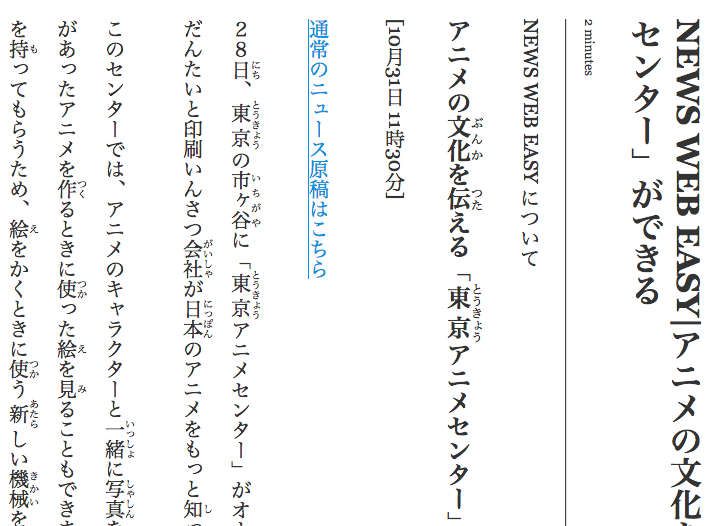
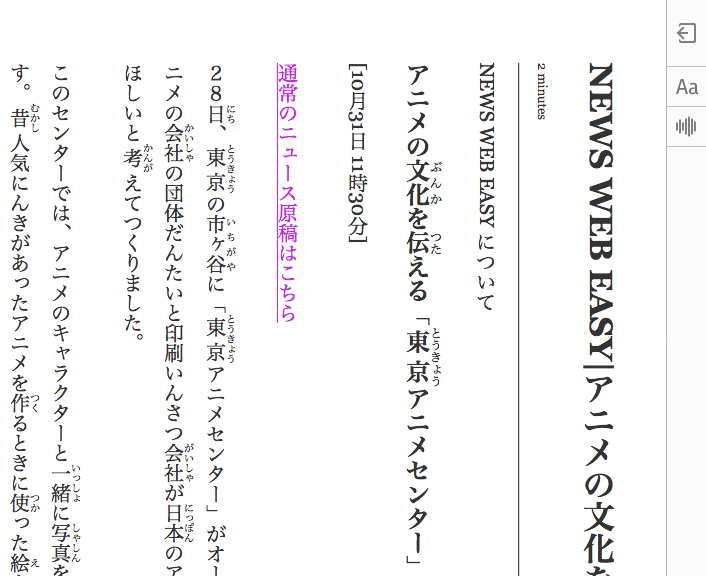
Add Chinese font override if lang=zh, supoprt reader view width setting

Changed region(s): [[0.0, 0.0304, 0.779, 1.0], [0.8102, 0.0304, 0.9972, 1.0]]

diff --git a/index.html b/index.html
@@ -56,11 +56,11 @@ javascript: (function() {
   const css = `
     :root {
       --line-height-scale: 1.3;
+      --max-width-to-height-scale: 1.0;
       --font-size-scale: 1.0;
     }
 
     body {
-      max-height: 0;
       padding: 0 !important;
       margin: 0 !important;
       overflow-x: auto !important;
@@ -77,18 +77,22 @@ javascript: (function() {
       --font-size-scale: 1.5;
     }
 
+    *[lang=zh] {
+      font-family: Georgia, 'Times New Roman', 'FangSong', '仿宋', STFangSong, '华文仿宋', serif !important;
+    }
+
     p {
       margin: -10px -10px -10px 20px !important;
     }
 
     #container {
       text-combine-upright: digits 4;
-      max-height: calc(100% - 64px * 2);
       max-width: 100% !important;
+      height: calc(100% - 128px);
       writing-mode: vertical-rl;
       position: fixed;
       overflow-x: auto;
-      padding: 64px 64px 64px 0;
+      padding: 64px 0 64px 0;
     }
 
     #reader-toolbar {
@@ -116,11 +120,11 @@ javascript: (function() {
     }
 
     .line-height2 {
-      line-height: 1.2em !important;
+      line-height: calc(1.2em * var(--line-height-scale)) !important;
     }
 
     .line-height3 {
-      line-height: 1.4em !important;
+      line-height: calc(1.4em * var(--line-height-scale)) !important;
     }
 
     .line-height4 {
@@ -128,23 +132,59 @@ javascript: (function() {
     }
 
     .line-height5 {
-      line-height: 1.8em !important;
+      line-height: calc(1.8em * var(--line-height-scale)) !important;
     }
 
     .line-height6 {
-      line-height: 2.0em !important;
+      line-height: calc(2.0em * var(--line-height-scale)) !important;
     }
 
     .line-height7 {
-      line-height: 2.2em !important;
+      line-height: calc(2.2em * var(--line-height-scale)) !important;
     }
 
     .line-height8 {
-      line-height: 2.4em !important;
+      line-height: calc(2.4em * var(--line-height-scale)) !important;
     }
 
     .line-height9 {
-      line-height: 2.6em !important;
+      line-height: calc(2.6em * var(--line-height-scale)) !important;
+    }
+
+    .content-width1 > .content {
+      max-height: calc(20em * var(--max-width-to-height-scale)) !important;
+    }
+
+    .content-width2 > .content {
+      max-height: calc(25em * var(--max-width-to-height-scale)) !important;
+    }
+
+    .content-width3 > .content {
+      max-height: calc(30em * var(--max-width-to-height-scale)) !important;
+    }
+
+    .content-width4 > .content {
+      max-height: calc(35em * var(--max-width-to-height-scale)) !important;
+    }
+
+    .content-width5 > .content {
+      max-height: calc(40em * var(--max-width-to-height-scale)) !important;
+    }
+
+    .content-width6 > .content {
+      max-height: calc(45em * var(--max-width-to-height-scale)) !important;
+    }
+
+    .content-width7 > .content {
+      max-height: calc(50em * var(--max-width-to-height-scale)) !important;
+    }
+
+    .content-width8 > .content {
+      max-height: calc(55em * var(--max-width-to-height-scale)) !important;
+    }
+
+    .content-width9 > .content {
+      max-height: calc(60em * var(--max-width-to-height-scale)) !important;
     }
   `;
 

diff --git a/rtl.js b/rtl.js
@@ -2,11 +2,11 @@ javascript: (function() {
   const css = `
     :root {
       --line-height-scale: 1.3;
+      --max-width-to-height-scale: 1.0;
       --font-size-scale: 1.0;
     }
 
     body {
-      max-height: 0;
       padding: 0 !important;
       margin: 0 !important;
       overflow-x: auto !important;
@@ -23,18 +23,22 @@ javascript: (function() {
       --font-size-scale: 1.5;
     }
 
+    *[lang=zh] {
+      font-family: Georgia, 'Times New Roman', 'FangSong', '仿宋', STFangSong, '华文仿宋', serif !important;
+    }
+
     p {
       margin: -10px -10px -10px 20px !important;
     }
 
     #container {
       text-combine-upright: digits 4;
-      max-height: calc(100% - 64px * 2);
       max-width: 100% !important;
+      height: calc(100% - 128px);
       writing-mode: vertical-rl;
       position: fixed;
       overflow-x: auto;
-      padding: 64px 64px 64px 0;
+      padding: 64px 0 64px 0;
     }
 
     #reader-toolbar {
@@ -62,11 +66,11 @@ javascript: (function() {
     }
 
     .line-height2 {
-      line-height: 1.2em !important;
+      line-height: calc(1.2em * var(--line-height-scale)) !important;
     }
 
     .line-height3 {
-      line-height: 1.4em !important;
+      line-height: calc(1.4em * var(--line-height-scale)) !important;
     }
 
     .line-height4 {
@@ -74,23 +78,59 @@ javascript: (function() {
     }
 
     .line-height5 {
-      line-height: 1.8em !important;
+      line-height: calc(1.8em * var(--line-height-scale)) !important;
     }
 
     .line-height6 {
-      line-height: 2.0em !important;
+      line-height: calc(2.0em * var(--line-height-scale)) !important;
     }
 
     .line-height7 {
-      line-height: 2.2em !important;
+      line-height: calc(2.2em * var(--line-height-scale)) !important;
     }
 
     .line-height8 {
-      line-height: 2.4em !important;
+      line-height: calc(2.4em * var(--line-height-scale)) !important;
     }
 
     .line-height9 {
-      line-height: 2.6em !important;
+      line-height: calc(2.6em * var(--line-height-scale)) !important;
+    }
+
+    .content-width1 > .content {
+      max-height: calc(20em * var(--max-width-to-height-scale)) !important;
+    }
+
+    .content-width2 > .content {
+      max-height: calc(25em * var(--max-width-to-height-scale)) !important;
+    }
+
+    .content-width3 > .content {
+      max-height: calc(30em * var(--max-width-to-height-scale)) !important;
+    }
+
+    .content-width4 > .content {
+      max-height: calc(35em * var(--max-width-to-height-scale)) !important;
+    }
+
+    .content-width5 > .content {
+      max-height: calc(40em * var(--max-width-to-height-scale)) !important;
+    }
+
+    .content-width6 > .content {
+      max-height: calc(45em * var(--max-width-to-height-scale)) !important;
+    }
+
+    .content-width7 > .content {
+      max-height: calc(50em * var(--max-width-to-height-scale)) !important;
+    }
+
+    .content-width8 > .content {
+      max-height: calc(55em * var(--max-width-to-height-scale)) !important;
+    }
+
+    .content-width9 > .content {
+      max-height: calc(60em * var(--max-width-to-height-scale)) !important;
     }
   `;
 
